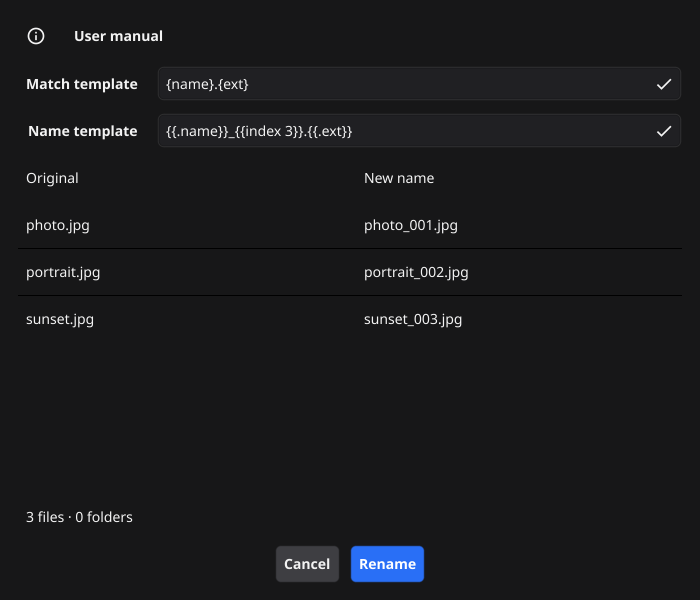
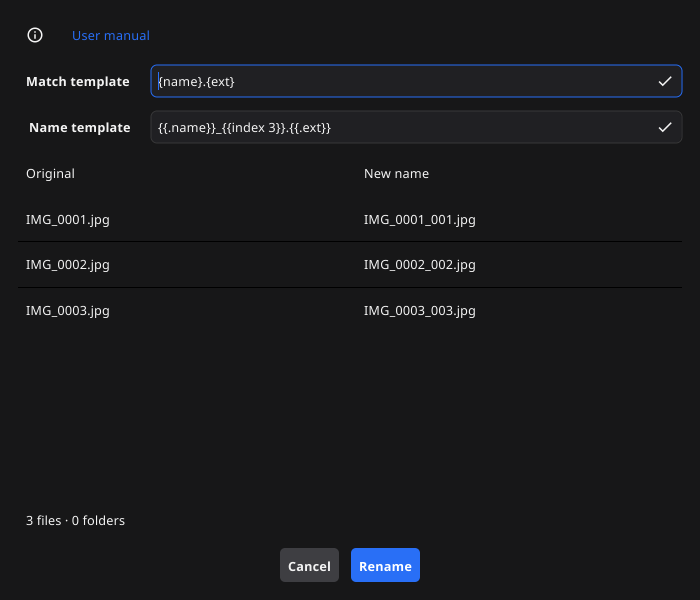
docs: documenting latest features in user mannual

diff --git a/manual.html b/manual.html
@@ -146,7 +146,7 @@
         <ol class="hints">
           <li id="pane-volume"><strong>Volumes and disk space</strong>The top-left dropdown selects a mounted drive or volume. The top-right value shows free space for that pane’s filesystem by default; turn off Show free disk space in Settings to show used space instead.</li>
           <li id="pane-path"><strong>Navigation and path</strong>Home opens your home folder; the up arrow goes to the parent. Enter a path in the field and press <kbd>Enter</kbd>. The <code>..</code> row, <kbd>Backspace</kbd>, or <kbd>Mod</kbd>+<kbd>↑</kbd> also goes up.</li>
-          <li id="pane-favourites"><strong>Favourite folders</strong>The star adds/removes the current folder. The adjacent dropdown opens saved favourites, shared between both panes.</li>
+          <li id="pane-favourites"><strong>Favourite folders</strong>The star (or <kbd>Mod</kbd>+<kbd>D</kbd>) adds/removes the current folder. The adjacent dropdown (or <kbd>Mod</kbd>+<kbd>Shift</kbd>+<kbd>D</kbd>) opens saved favourites, shared between both panes; press a number key to open that entry.</li>
           <li id="pane-view"><strong>Brief or Detailed</strong>The view button toggles this pane’s layout. Its icon shows the view you can switch to. Brief emphasises names; Detailed also shows size, modified date, and attributes. Use <kbd>Mod</kbd>+<kbd>1</kbd> / <kbd>2</kbd> for the active pane.</li>
           <li id="pane-sort"><strong>Sort headers</strong>Click Name, Size, or Date to sort; click again to reverse. The triangle shows direction. Sorting works in both views.</li>
           <li id="pane-files"><strong>Cursor versus marks</strong>Click sets the cursor; double-click or <kbd>Enter</kbd> opens. Marked names use a distinct colour (red here). <kbd>Space</kbd>/<kbd>Insert</kbd> or <kbd>Mod</kbd>+click toggles marks; <kbd>Shift</kbd>+click marks a range. Copy, move, and delete use marks, or the cursor item if none are marked.</li>
@@ -165,6 +165,8 @@
             <tbody>
               <tr><th scope="row">Open</th><td><kbd>Enter</kbd> / <kbd>Mod</kbd>+<kbd>O</kbd></td><td>Enter a folder or supported archive; open other files with the OS-associated application.</td></tr>
               <tr><th scope="row">Home folder</th><td><kbd>Mod</kbd>+<kbd>Shift</kbd>+<kbd>H</kbd></td><td>Open your home folder in the active pane.</td></tr>
+              <tr><th scope="row">Star folder</th><td><kbd>Mod</kbd>+<kbd>D</kbd></td><td>Add or remove the active pane’s folder from your favourites (Go → Star Folder).</td></tr>
+              <tr><th scope="row">Starred folders</th><td><kbd>Mod</kbd>+<kbd>Shift</kbd>+<kbd>D</kbd></td><td>Open the numbered favourites list for the active pane. Press <kbd>1</kbd>–<kbd>9</kbd> to open that folder, or <kbd>Esc</kbd> to close.</td></tr>
               <tr><th scope="row">Compare files / folders</th><td><kbd>Mod</kbd>+<kbd>Alt</kbd>+<kbd>D</kbd> / <kbd>Mod</kbd>+<kbd>Alt</kbd>+<kbd>Shift</kbd>+<kbd>D</kbd></td><td>Compare the cursor files in both panes, or the two folder contents. Needs a comparison command set in Settings.</td></tr>
               <tr><th scope="row">Edit</th><td><kbd>F4</kbd></td><td>Open the cursor file in your configured external editor. No built-in editor.</td></tr>
               <tr><th scope="row">New file</th><td><kbd>Shift</kbd>+<kbd>F4</kbd></td><td>Enter a name; create and select the file. Press F4 afterwards to edit it.</td></tr>
@@ -187,11 +189,11 @@
       </section>
       <section id="settings" aria-labelledby="settings-title">
         <h2 id="settings-title">Settings tour</h2>
-        <p>Open <strong>Settings</strong> with <kbd>Mod</kbd>+<kbd>,</kbd> or the application menu (DualCommander on macOS; File on Windows/Linux). Changes save automatically; there is no Save button. Invalid command lists are not saved.</p>
+        <p>Open <strong>Settings</strong> with <kbd>Mod</kbd>+<kbd>,</kbd> or the application menu (DualCommander on macOS; File on Windows/Linux). Changes save automatically; there is no Save button. Invalid command lists are not saved. The <strong>User manual</strong> link at the top of the dialog opens this section in your browser.</p>
         <figure class="settings-figure">
           <div class="image-scroll" tabindex="0" role="region" aria-label="Annotated settings screenshot; scroll horizontally on smaller screens">
             <div class="annotated">
-              <picture><source data-dark media="(prefers-color-scheme: dark)" srcset="screenshots/manual-settings-dark.png"><img src="screenshots/manual-settings.png" alt="Complete Settings form showing Appearance, File views, File deletion, Archives, and all five External applications fields, including Compare files and Compare folder contents. Numbered explanations follow below." width="900" height="1169" loading="lazy"></picture>
+              <picture><source data-dark media="(prefers-color-scheme: dark)" srcset="screenshots/manual-settings-dark.png"><img src="screenshots/manual-settings.png" alt="Complete Settings form showing Appearance, File views, File deletion, Archives, and all five External applications fields, including Compare files and Compare folder contents. Numbered explanations follow below." width="900" height="1268" loading="lazy"></picture>
               <a class="pin" style="--x: 89%; --y: 6.5%" href="#setting-appearance" aria-label="1. Appearance">1</a>
               <a class="pin" style="--x: 89%; --y: 19.5%" href="#setting-views" aria-label="2. File views">2</a>
               <a class="pin" style="--x: 89%; --y: 32.5%" href="#setting-deletion" aria-label="3. File deletion">3</a>
@@ -202,7 +204,7 @@
           <figcaption>Full settings content in the site’s selected theme, with macOS defaults shown as placeholder text. Scroll the dialog on shorter displays; defaults differ by OS.</figcaption>
         </figure>
         <ol class="hints">
-          <li id="setting-appearance"><strong>Appearance</strong>Theme follows the system or uses light/dark. Density chooses standard or compact file rows. Font size adjusts file-list text; use larger text for readability or compact rows to fit more files.</li>
+          <li id="setting-appearance"><strong>Appearance</strong>Theme follows the system or uses light/dark. Density chooses standard or compact file rows. Font size (XXS to XXL, default S) adjusts file-list text; use larger text for readability or compact rows to fit more files.</li>
           <li id="setting-views"><strong>File views</strong>Choose Brief/Detailed separately for left and right. Show hidden files affects both panes; <kbd>Mod</kbd>+<kbd>Shift</kbd>+<kbd>.</kbd> toggles it while browsing. Show free disk space switches the volume indicator between free and used space.</li>
           <li id="setting-deletion"><strong>File deletion</strong>Move deleted files to Trash is enabled by default. Disabling it makes deletion permanent.</li>
           <li id="setting-archives"><strong>Archives</strong>Browse archives in DualCommander opens supported archives like folders. Turn it off to use the OS-associated application instead. Browsing does not enable archive editing.</li>
@@ -299,16 +301,16 @@
         <figure class="settings-figure">
           <div class="image-scroll" tabindex="0" role="region" aria-label="Annotated Multi-Rename screenshot; scroll horizontally on smaller screens">
             <div class="annotated">
-              <img src="screenshots/manual-multi-rename-dark.png" alt="Multi-Rename in dark mode, matching {name}.{ext} and adding a three-digit counter to three JPG file names. Numbered explanations follow below." width="700" height="600" loading="lazy">
-              <a class="pin" style="--x: 91%; --y: 11.5%" href="#rename-match" aria-label="1. Match template">1</a>
-              <a class="pin" style="--x: 91%; --y: 19.5%" href="#rename-name" aria-label="2. Name template">2</a>
-              <a class="pin" style="--x: 91%; --y: 34%" href="#rename-preview" aria-label="3. Preview">3</a>
-              <a class="pin" style="--x: 27%; --y: 84%" href="#rename-selection" aria-label="4. Selected items">4</a>
-              <a class="pin" style="--x: 58%; --y: 91.5%" href="#rename-actions" aria-label="5. Rename and Cancel">5</a>
-              <a class="pin" style="--x: 29%; --y: 3%" href="#rename-help" aria-label="6. Help and user manual">6</a>
+              <picture><source data-dark media="(prefers-color-scheme: dark)" srcset="screenshots/manual-multi-rename-dark.png"><img src="screenshots/manual-multi-rename.png" alt="Multi-Rename matching {name}.{ext} and adding a three-digit counter to three JPG file names. Numbered explanations follow below." width="700" height="600" loading="lazy"></picture>
+              <a class="pin" style="--x: 91%; --y: 13.7%" href="#rename-match" aria-label="1. Match template">1</a>
+              <a class="pin" style="--x: 91%; --y: 21.2%" href="#rename-name" aria-label="2. Name template">2</a>
+              <a class="pin" style="--x: 91%; --y: 36.5%" href="#rename-preview" aria-label="3. Preview">3</a>
+              <a class="pin" style="--x: 20%; --y: 86.7%" href="#rename-selection" aria-label="4. Selected items">4</a>
+              <a class="pin" style="--x: 50%; --y: 94.3%" href="#rename-actions" aria-label="5. Rename and Cancel">5</a>
+              <a class="pin" style="--x: 23%; --y: 5.8%" href="#rename-help" aria-label="6. Help and user manual">6</a>
             </div>
           </div>
-          <figcaption>Multi-Rename in dark mode: add a three-digit suffix while keeping each file’s name and extension.</figcaption>
+          <figcaption>Multi-Rename: add a three-digit suffix while keeping each file’s name and extension.</figcaption>
         </figure>
         <ol class="hints">
           <li id="rename-match"><strong>Match template</strong>Choose which names match and capture the parts to reuse. Here, <code>{name}.{ext}</code> captures the name and extension. Matching is case-sensitive and covers the whole name.</li>
@@ -391,7 +393,7 @@
         <h3 id="settings-example">settings.json example</h3>
         <p>This sample uses OS-default reveal, terminal, and editor apps, with comparison disabled. A command is stored as a <strong>string containing a JSON argument list</strong>, not as an array. For example, VS Code is <code>"editorCommand": "[\"code\",\"--wait\",\"{path}\"]"</code>. Use the commands from the editor and terminal sections above, escaping their double quotes when placing them inside this file.</p>
         <pre><code class="config-example" data-file="settings.json">{
-  "appearance": { "theme": "system", "density": "standard", "fontSize": "medium" },
+  "appearance": { "theme": "system", "density": "standard", "fontSize": "S" },
   "views": {
     "left": { "brief": true },
     "right": { "brief": false },
